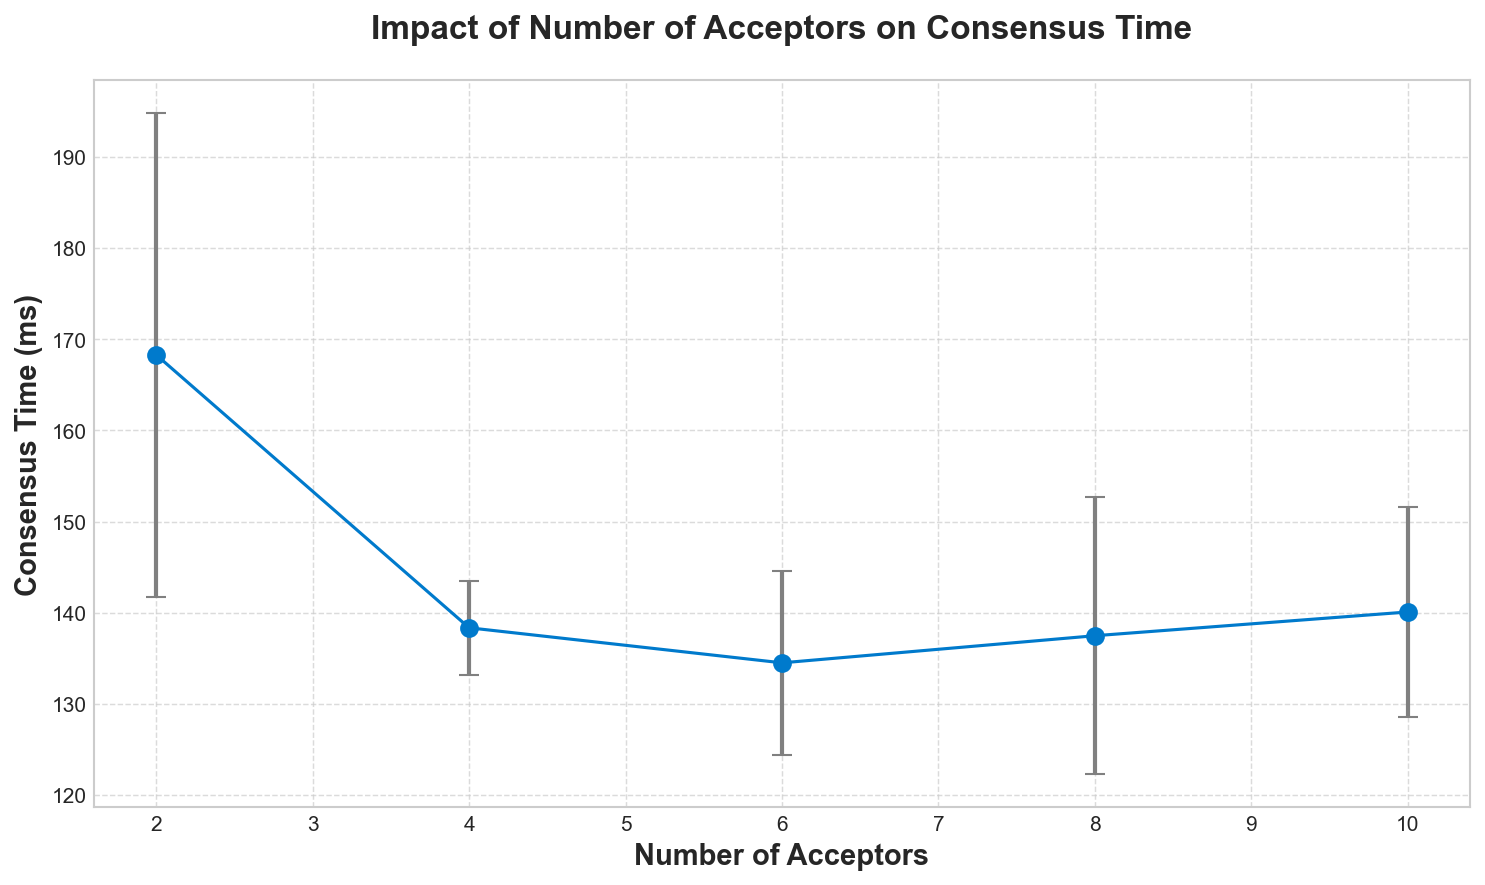
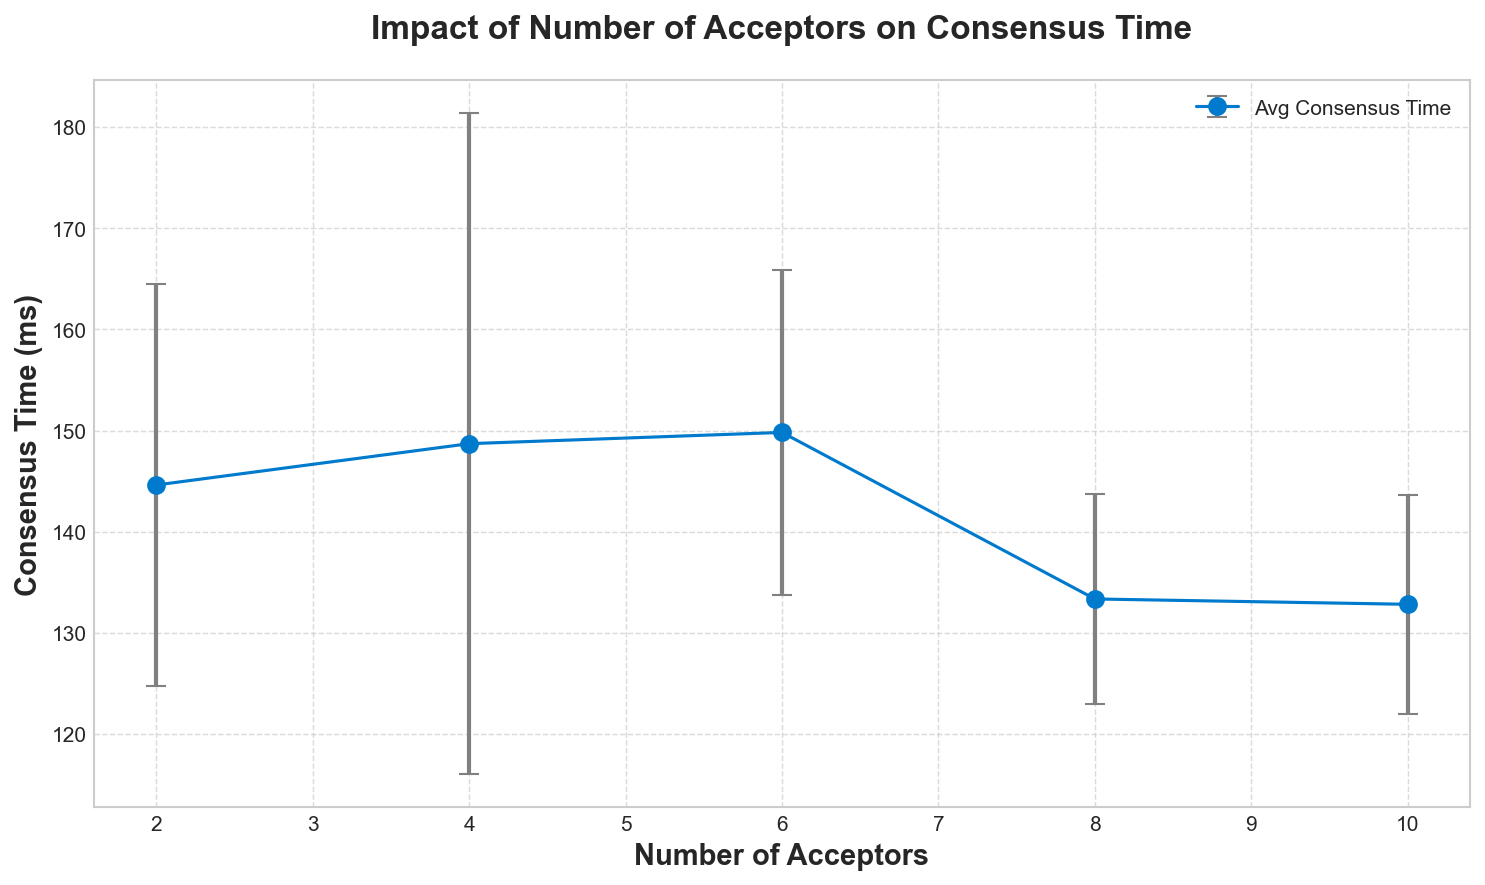
final plots

diff --git a/paxos/paxos_analysis/plot_analysis.py b/paxos/paxos_analysis/plot_analysis.py
@@ -221,6 +221,8 @@ def analyze_acceptor_impact(
     plt.savefig('acceptor_impact_avg_var.png', dpi=150, bbox_inches='tight')
     plt.show()
 
+    return df
+
 def analyze_proposer_impact(
     max_proposers: int = 5,
     num_acceptors: int = 4,
@@ -275,9 +277,11 @@ def analyze_proposer_impact(
     ax.set_facecolor('white')
     fig.patch.set_facecolor('white')
     plt.tight_layout()
-    plt.savefig('proposer_impact_avg_var.png', dpi=150, bbox_inches='tight')
     plt.legend()
+    plt.savefig('proposer_impact_avg_var.png', dpi=150, bbox_inches='tight')
     plt.show()
+
+    return df
 
 def analyze_network_conditions(
     delay_ranges: List[Tuple[float, float]] = [(0.01, 0.05), (0.1, 0.2), (0.3, 0.5)],
@@ -479,6 +483,35 @@ def plot_elapsed_time_vs_delay(
     plt.savefig('elapsed_time_vs_delay_ms.png', dpi=150, bbox_inches='tight')
     plt.show()
 
+def plot_acceptor_and_proposer_impact_together(df_acceptors, df_proposers):
+    plt.style.use('seaborn-v0_8-whitegrid')
+    fig, ax = plt.subplots(figsize=(12, 7))
+
+    # Plot acceptor impact
+    ax.errorbar(
+        df_acceptors['num_acceptors'],
+        df_acceptors['avg_consensus_time'] * 1000,
+        yerr=df_acceptors['std_consensus_time'] * 1000,
+        fmt='o-', color='#007acc', capsize=5, markersize=8, label='Varying Acceptors'
+    )
+
+    # Plot proposer impact
+    ax.errorbar(
+        df_proposers['num_proposers'],
+        df_proposers['avg_consensus_time'] * 1000,
+        yerr=df_proposers['std_consensus_time'] * 1000,
+        fmt='s-', color='#e67e22', capsize=5, markersize=8, label='Varying Proposers'
+    )
+
+    ax.set_xlabel('Number of Nodes', fontsize=14, fontweight='bold')
+    ax.set_ylabel('Consensus Time (ms)', fontsize=14, fontweight='bold')
+    ax.set_title('Impact of Acceptors and Proposers on Consensus Time', fontsize=16, fontweight='bold', pad=20)
+    ax.legend(fontsize=12)
+    ax.grid(True, which='both', linestyle='--', linewidth=0.7, alpha=0.7)
+    plt.tight_layout()
+    plt.savefig('acceptor_vs_proposer_impact.png', dpi=150, bbox_inches='tight')
+    plt.show()
+
 if __name__ == "__main__":
     # Set style
     plt.style.use('ggplot')
@@ -487,34 +520,34 @@ if __name__ == "__main__":
     print("Starting Paxos analysis...")
     
     # 1. Analyze impact of number of acceptors
-    #analyze_acceptor_impact(
-    #    max_acceptors=10,
-    #    num_proposers=2,
-    #    num_learners=2,
-    #    delay_range=(0.01, 0.05),
-    #    failure_rate=0.0,
-    #    runs_per_config=5
-    #)
+    df_acceptors = analyze_acceptor_impact(
+        max_acceptors=10,
+        num_proposers=2,
+        num_learners=2,
+        delay_range=(0.01, 0.05),
+        failure_rate=0.0,
+        runs_per_config=5
+    )
     
     # 2. Analyze impact of number of proposers
-    #analyze_proposer_impact(
-    #    max_proposers=10,
-    #    num_acceptors=4,
-    #    num_learners=4,
-    #    delay_range=(0.01, 0.05),
-    #    failure_rate=0.0,
-    #    runs_per_config=5
-    #)
+    df_proposers = analyze_proposer_impact(
+        max_proposers=10,
+        num_acceptors=4,
+        num_learners=4,
+        delay_range=(0.01, 0.05),
+        failure_rate=0.0,
+        runs_per_config=5
+    )
     
     # 3. Analyze impact of network conditions
-    #analyze_network_conditions(
-    #    delay_ranges=[(0.01, 0.05), (0.1, 0.2), (0.2, 0.3), (0.3, 0.4)],  # Keep a constant delay range
-    #    failure_rates=[0.1, 0.2, 0.3, 0.4],  # Vary failure rates
-    #    num_proposers=2,
-    #    num_acceptors=4,
-    #    num_learners=4,
-    #    runs_per_config=5
-    #)
+    analyze_network_conditions(
+        delay_ranges=[(0.01, 0.05), (0.1, 0.2), (0.2, 0.3), (0.3, 0.4)],  # Keep a constant delay range
+        failure_rates=[0.1, 0.2, 0.3, 0.4],  # Vary failure rates
+        num_proposers=2,
+        num_acceptors=4,
+        num_learners=4,
+        runs_per_config=5
+    )
     
     plot_elapsed_time_vs_delay(
         delay_ranges=[(0.01, 0.05), (0.05, 0.1), (0.1, 0.2), (0.2, 0.3), (0.3, 0.4), (0.4, 0.5), (0.5, 0.6), (0.6, 0.7), (0.7, 0.8), (0.8, 0.9), (0.9, 1.0)],
@@ -524,5 +557,7 @@ if __name__ == "__main__":
         num_learners=0,
         runs_per_config=3
     )
+    
+    plot_acceptor_and_proposer_impact_together(df_acceptors, df_proposers)
     
     print("\nAnalysis complete! Check the generated PNG files for results.") 

diff --git a/paxos/paxos_analysis/paxos_visualizer.py b/paxos/paxos_analysis/paxos_visualizer.py
@@ -6,7 +6,7 @@ import random
 import queue
 from typing import Dict, List, Tuple, Optional
 import logging
-from paxos.essential import Proposer, Acceptor, Learner, ProposalID
+from paxos_main.essential import Proposer, Acceptor, Learner, ProposalID
 from paxos_simulation import NetworkMessage, NetworkSimulator, PaxosNode, PaxosProposer, PaxosAcceptor, PaxosLearner
 
 class PaxosVisualizer:

diff --git a/paxos/paxos_analysis/paxos_visualizer_qt.py b/paxos/paxos_analysis/paxos_visualizer_qt.py
@@ -8,7 +8,7 @@ import time
 import random
 import queue
 from typing import Dict, List, Tuple, Optional
-from paxos.essential import Proposer, Acceptor, Learner, ProposalID
+from paxos_main.essential import Proposer, Acceptor, Learner, ProposalID
 from paxos_simulation import NetworkMessage, NetworkSimulator, PaxosNode, PaxosProposer, PaxosAcceptor, PaxosLearner
 import math
 

diff --git a/paxos/paxos_main/practical.py b/paxos/paxos_main/practical.py
@@ -2,9 +2,9 @@
 This module builds upon the essential Paxos implementation and adds
 functionality required for most practical uses of the algorithm. 
 '''
-from paxos import essential
+from paxos_main import essential
 
-from paxos.essential import ProposalID
+from paxos_main.essential import ProposalID
 
 
 class Messenger (essential.Messenger):

diff --git a/paxos/paxos_analysis/basic.py b/paxos/paxos_analysis/basic.py
@@ -2,7 +2,7 @@ import time
 import threading
 import random
 import logging
-from paxos.essential import Proposer, Acceptor, Learner, ProposalID
+from paxos_main.essential import Proposer, Acceptor, Learner, ProposalID
 
 # Setup logging
 logging.basicConfig(level=logging.INFO, format='%(asctime)s - %(levelname)s - %(message)s')

diff --git a/paxos/paxos_main/external.py b/paxos/paxos_main/external.py
@@ -1,9 +1,9 @@
 '''
 This module extends practical.Node to support external failure detection.
 '''
-from paxos import practical
+from paxos_main import practical
 
-from paxos.practical import ProposalID
+from paxos_main.practical import ProposalID
 
 
 class ExternalMessenger (practical.Messenger):

diff --git a/paxos/paxos_main/functional.py b/paxos/paxos_main/functional.py
@@ -4,9 +4,9 @@ simple heartbeating mechanism.
 '''
 import time
 
-from paxos import practical
+from paxos_main import practical
 
-from paxos.practical import ProposalID
+from paxos_main.practical import ProposalID
 
 
 class HeartbeatMessenger (practical.Messenger):

diff --git a/paxos/paxos_analysis/paxos_simulation.py b/paxos/paxos_analysis/paxos_simulation.py
@@ -1,4 +1,4 @@
-from paxos.essential import Proposer, Acceptor, Learner, ProposalID
+from paxos_main.essential import Proposer, Acceptor, Learner, ProposalID
 import threading
 import time
 import random

diff --git a/paxos/paxos_analysis/example.py b/paxos/paxos_analysis/example.py
@@ -1,4 +1,4 @@
-from paxos.essential import Proposer, Acceptor, Learner, ProposalID
+from paxos_main.essential import Proposer, Acceptor, Learner, ProposalID
 import threading
 import time
 
